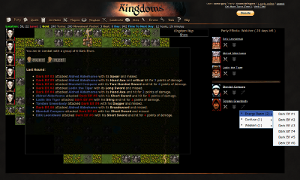
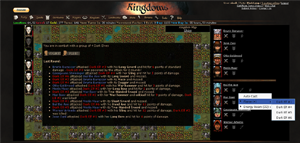
Updated screenshosts. Refs #606

diff --git a/root/player/login.html b/root/player/login.html
@@ -1,6 +1,6 @@
 [% INCLUDE top.html, guest_screen = 1 %]
 
-[% shots = [1,2,9,3,4,7,8] %]
+[% shots = [1,5,2,9,3,4,7,8] %]
 
 <script>
 function displayIEDiag() {
@@ -37,6 +37,7 @@ var shotDescs = {
 	4: "Combat - cast a spell by selecting it from the action menu",	
 	7: "Constructing a new building",
 	8: "Exploring a dungeon",
+	5: "A Character's Tooltip",
 };
 
 function showShot(shotId) {
